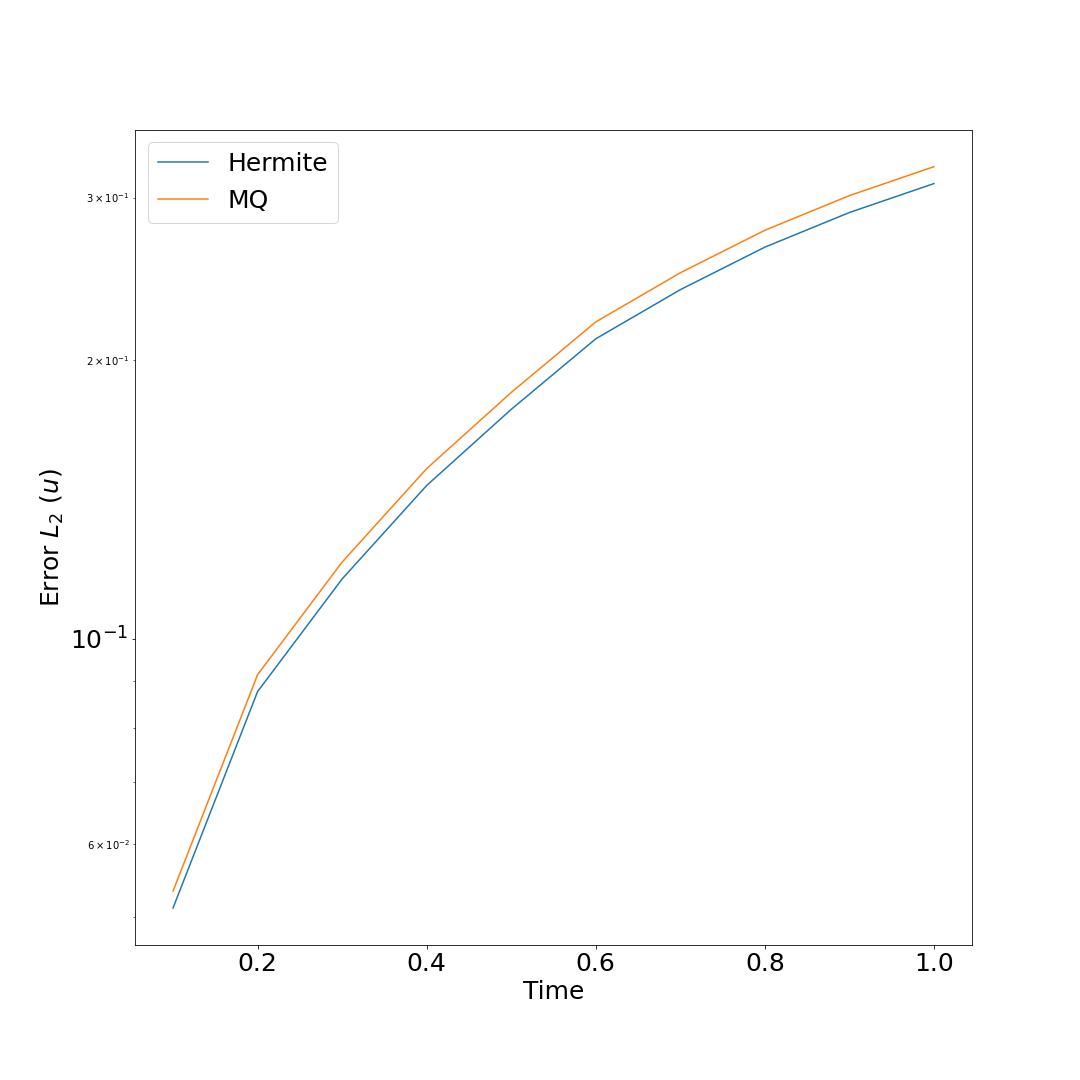
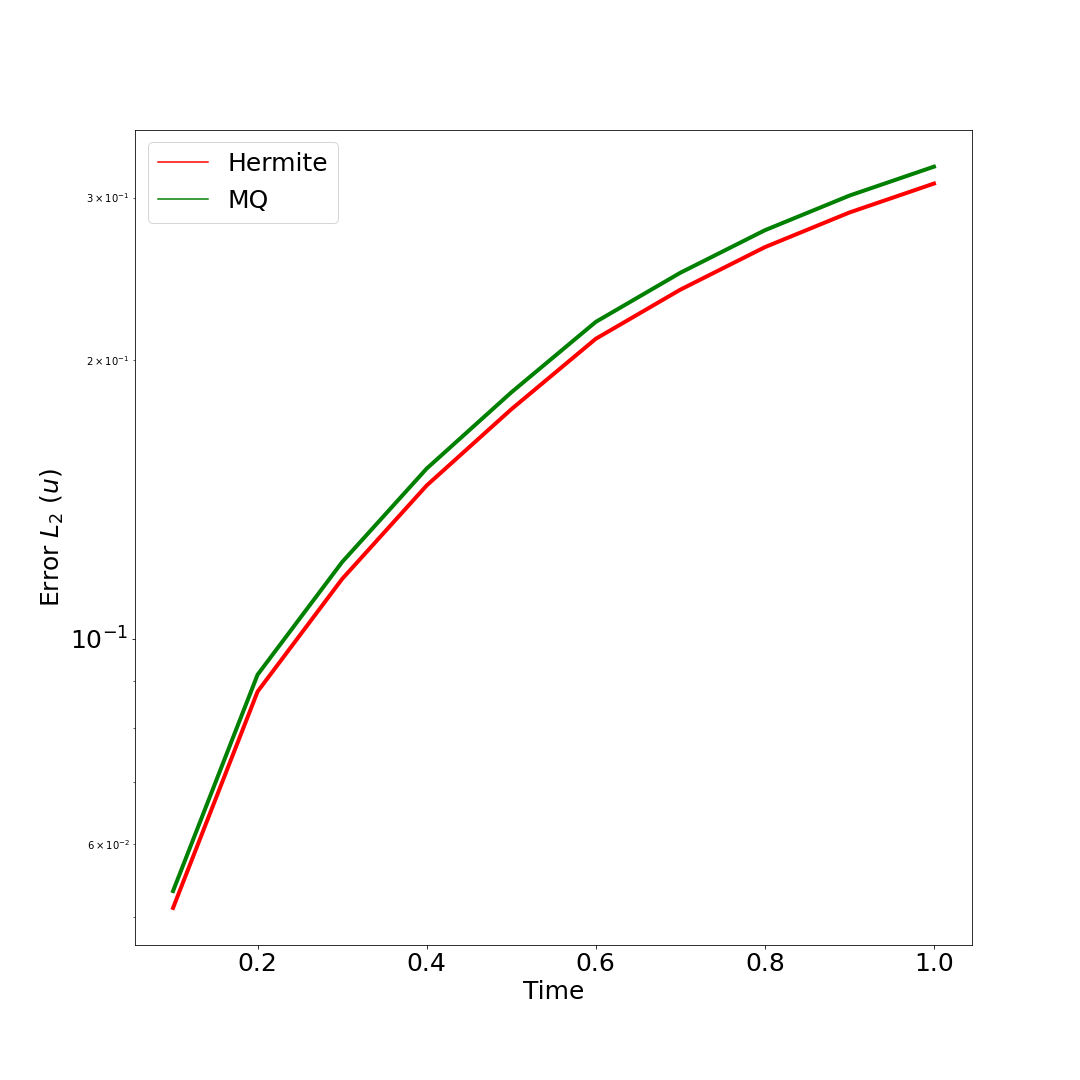
Update

diff --git a/generate_plots.py b/generate_plots.py
@@ -318,7 +318,7 @@ class build_images(results_analysis):
 # ------------------------------------------------------------------------------------------------------------
 
 # %% Norms
-nu = 0.001
+nu = 0.01
 pol = 'MQ'
 #file = f'data/simulations/TPS/{pol}/500_52_{nu}.json'
 file = f'data/simulations/{pol}/500_52_{nu}.json'
@@ -384,7 +384,8 @@ component = 'v'
 norm_e = '2'
 df = df.reset_index(drop=True)
 plt.subplots(figsize=(15, 15))
-sns.lineplot(data=df, x="ti", y=f'{component}{norm_e}', hue='poly')
+sns.lineplot(data=df, x="ti", y=f'{component}{norm_e}', hue='poly', palette=['red', 'green'], linewidth=4)
+
 plt.yscale('log')
 plt.xticks(fontsize=25);
 plt.yticks(fontsize=25);
